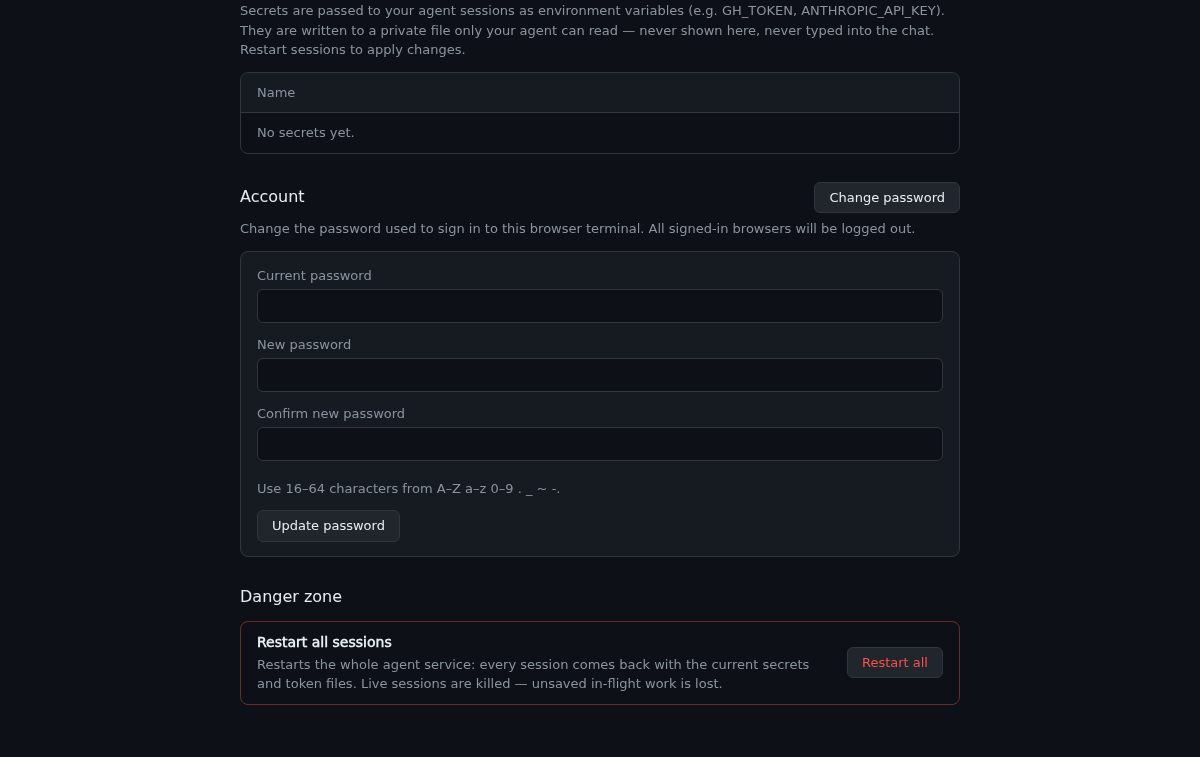
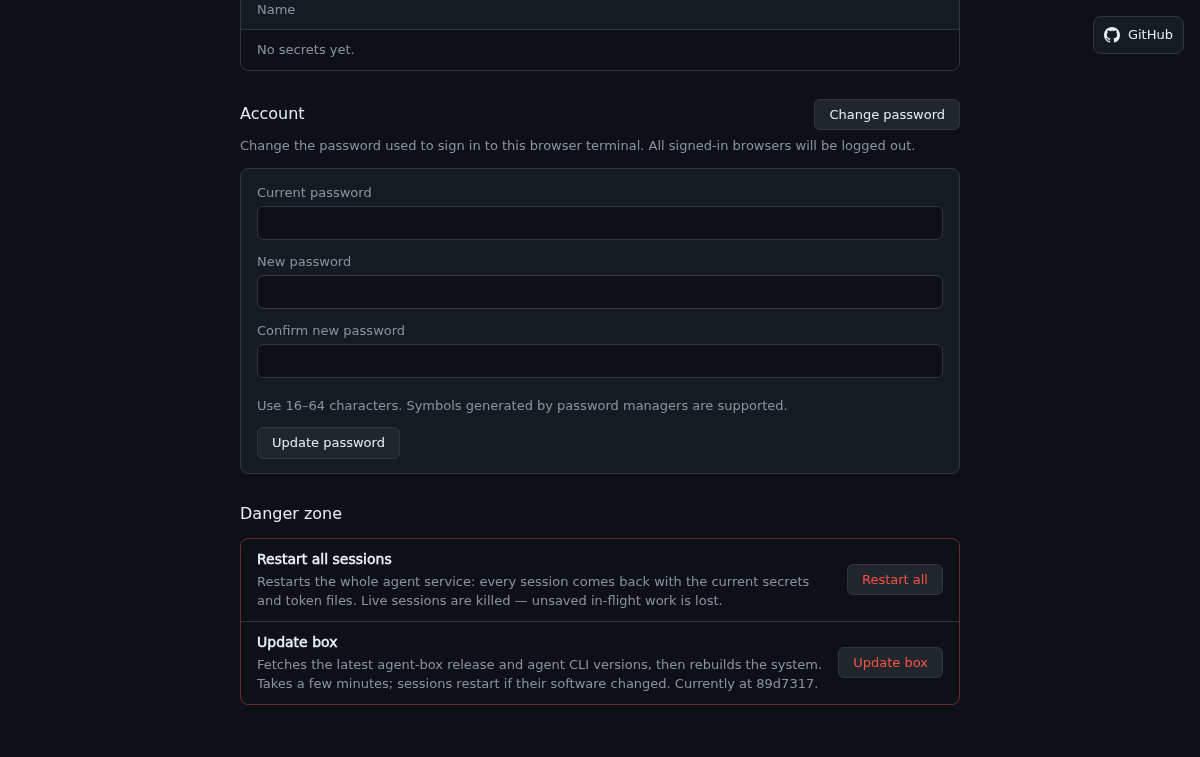
Address password hashing review

diff --git a/README.md b/README.md
@@ -30,8 +30,9 @@ Let's Encrypt cert against `<eip>.sslip.io`.
 | eu-central-1 (Frankfurt) | [Launch stack →](https://console.aws.amazon.com/cloudformation/home?region=eu-central-1#/stacks/quickcreate?stackName=agent-box&templateURL=https%3A%2F%2Fdefang-agent-box.s3.us-west-2.amazonaws.com%2Ftemplate.yaml) |
 | eu-west-1 (Ireland) | [Launch stack →](https://console.aws.amazon.com/cloudformation/home?region=eu-west-1#/stacks/quickcreate?stackName=agent-box&templateURL=https%3A%2F%2Fdefang-agent-box.s3.us-west-2.amazonaws.com%2Ftemplate.yaml) |
 
-Choose `Agent` (`claude` or `codex`), set a `WebPassword` (16+ chars from
-`[A-Za-z0-9._~-]`), pick an instance size, launch. The stack reports
+Choose `Agent` (`claude` or `codex`), set a `WebPassword` (any 16&ndash;64
+characters, including password-manager symbols), pick an instance size,
+launch. The stack reports
 CREATE_COMPLETE only after the box phones home from its first successful
 rebuild — a first boot that goes wrong (issue 106 has one way) rolls the
 stack back visibly instead of leaving a green stack with a dead URL. The agent runs as the
@@ -89,7 +90,8 @@ details.
 **Changing the web password.** Open the settings page (the gear icon next to
 the terminal), choose **Change password**, and enter the current password plus
 the new password twice. The new password follows the launch-time 16&ndash;64
-character policy. Saving replaces the root-owned bcrypt hash, reloads Caddy,
+character policy. Saving replaces the root-owned password hash using Caddy's
+recommended Argon2id algorithm, reloads Caddy,
 and signs out every browser by rotating the authentication-cookie secret.
 
 **Updating the box.** Click "Update box" on the settings page (the gear icon
@@ -336,10 +338,12 @@ arbitrary command execution as the agent user.
 - **Tight sudo:** whatever's in `sudoAllowlist` is the entire root-capable
   surface. `NOPASSWD` only - no `SETENV`, no blanket sudo, no ALL.
 - **Nothing anonymous, brute-force damping (web deployments):** every path
-  on the vhost — terminal workspace, per-session terminals, settings — sits behind the
-  login (the CI tests assert the 401s), the password hash is bcrypt via
-  Caddy, and a fail2ban jail bans IPs that repeatedly fail it (default on,
-  `web.fail2ban`; it only counts requests that actually carried
+  on the vhost — terminal workspace, per-session terminals, settings — sits
+  behind the
+  login (the CI tests assert the 401s), new password hashes use Caddy's
+  recommended Argon2id algorithm (legacy bcrypt hashes remain accepted until
+  the password changes), and a fail2ban jail bans IPs that repeatedly fail it
+  (default on, `web.fail2ban`; it only counts requests that actually carried
   credentials). Discovery isn't assumed to be hard — the ACME cert for
   `<ip>.sslip.io` lands in public CT logs minutes after launch — auth is
   simply required everywhere.

diff --git a/aws/README.md b/aws/README.md
@@ -149,17 +149,20 @@ band — the launch page copy leads with this.
 
 `WebPassword` is marked `NoEcho` and is not emitted in stack Outputs. It still
 exists as plaintext in the substituted EC2 user-data, and the current
-implementation interpolates it into first-boot Nix/systemd material so Caddy can
-derive its Basic Auth hash. Treat principals that can read instance user-data or
-the instance's local system configuration as inside the web terminal trust
+implementation interpolates a reversible base64 projection into first-boot
+Nix/systemd material, then decodes it in the activation script so Caddy can
+derive its Basic Auth hash. Treat principals that can read instance user-data
+or the instance's local system configuration as inside the web terminal trust
 boundary.
 
 Caddy does not compare the plaintext password at request time. On first boot an
-activation script runs `caddy hash-password` and stores only the bcrypt hash at
+activation script runs `caddy hash-password --algorithm argon2id` and stores
+only the Argon2id hash at
 `/var/lib/agent-box-web/password-hash` (the file the module's
 `users.agent.web.passwordHashFile` points at). On every boot
-`agent-web-auth-secrets.service` writes that hash (`WEB_PASSWORD_HASH_AGENT`)
-plus a random cookie secret (`WEB_COOKIE_SECRET_AGENT`) to
+`agent-web-auth-secrets.service` writes that hash and its detected algorithm
+(`WEB_PASSWORD_HASH_AGENT` / `WEB_PASSWORD_ALGORITHM_AGENT`) plus a random
+cookie secret (`WEB_COOKIE_SECRET_AGENT`) to
 `/run/agent-box-web/env` (`0600`), and Caddy reads that environment file. The
 cookie secret is generated on the instance and stored separately at
 `/var/lib/agent-box-web/cookie-secret-agent` (`0700` parent directory).